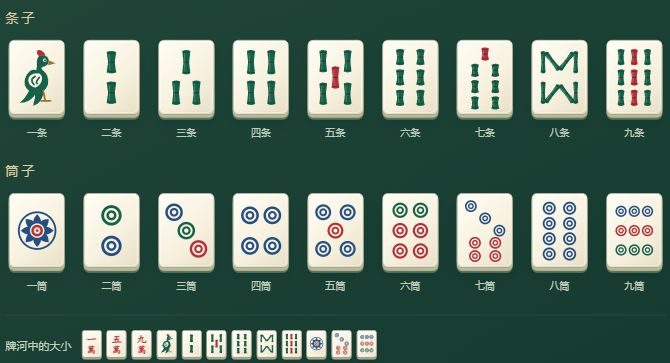
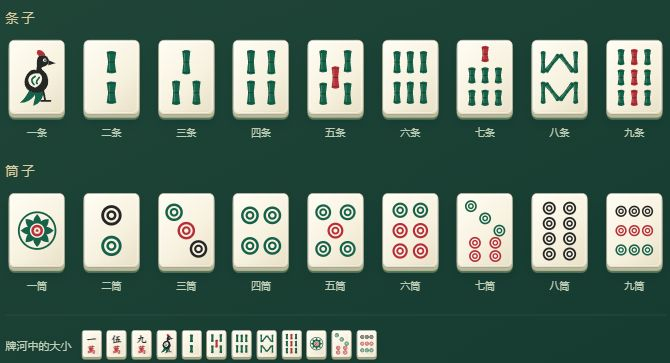
Match all tile colors and layouts to a Chinese physical set

diff --git a/index.html b/index.html
@@ -2478,39 +2478,40 @@ window.onerror = function (msg, src, line, col) {
 
   // ---------- 小工具 ----------
   // ---------- 麻将牌图案：独立 SVG，采用清楚的刻纹和红绿蓝墨色 ----------
-  var CN_NUM = ['一', '二', '三', '四', '五', '六', '七', '八', '九'];
+  var CN_NUM = ['一', '二', '三', '四', '伍', '六', '七', '八', '九'];
   var WAN_FONT = "'KaiTi','STKaiti','Kaiti SC','Songti SC','SimSun','Noto Serif CJK SC','Source Han Serif SC',serif";
   var DOT_LAYOUT = {
-    2: { r: 10, pts: [[24, 17], [24, 47]], colors: 'gb' },
-    3: { r: 8.6, pts: [[12, 14], [24, 32], [36, 50]], colors: 'bgr' },
-    4: { r: 8.7, pts: [[13, 17], [35, 17], [13, 47], [35, 47]], colors: 'bbbb' },
-    5: { r: 7.8, pts: [[12, 14], [36, 14], [24, 32], [12, 50], [36, 50]], colors: 'bbrbb' },
+    2: { r: 10, pts: [[24, 17], [24, 47]], colors: 'kg' },
+    3: { r: 8.6, pts: [[12, 14], [24, 32], [36, 50]], colors: 'grk' },
+    4: { r: 8.7, pts: [[13, 17], [35, 17], [13, 47], [35, 47]], colors: 'gggg' },
+    5: { r: 7.8, pts: [[12, 14], [36, 14], [24, 32], [12, 50], [36, 50]], colors: 'ggrgg' },
     6: { r: 7.5, pts: [[14, 12], [34, 12], [14, 32], [34, 32], [14, 52], [34, 52]], colors: 'ggrrrr' },
-    7: { r: 5.8, pts: [[10, 8], [24, 20], [38, 32], [14, 44], [34, 44], [14, 57], [34, 57]], colors: 'bbbrrrr' },
-    8: { r: 6.4, pts: [[14, 10], [34, 10], [14, 25], [34, 25], [14, 40], [34, 40], [14, 55], [34, 55]], colors: 'bbbbbbbb' },
-    9: { r: 5.5, pts: [[11, 13], [24, 13], [37, 13], [11, 32], [24, 32], [37, 32], [11, 51], [24, 51], [37, 51]], colors: 'bbbrrrggg' }
+    7: { r: 5.8, pts: [[10, 8], [24, 20], [38, 32], [14, 44], [34, 44], [14, 57], [34, 57]], colors: 'gggrrrr' },
+    8: { r: 6.4, pts: [[14, 10], [34, 10], [14, 25], [34, 25], [14, 40], [34, 40], [14, 55], [34, 55]], colors: 'kkkkkkkk' },
+    9: { r: 5.5, pts: [[11, 13], [24, 13], [37, 13], [11, 32], [24, 32], [37, 32], [11, 51], [24, 51], [37, 51]], colors: 'kkkrrrggg' }
   };
   var STICK_LAYOUT = {
     2: { L: 22, W: 9.4, pts: [[24, 17], [24, 47]], accent: [] },
     3: { L: 24, W: 8, pts: [[24, 17], [14, 47], [34, 47]], accent: [] },
     4: { L: 24, W: 8, pts: [[14, 17], [34, 17], [14, 47], [34, 47]], accent: [] },
     5: { L: 22, W: 7.6, pts: [[12, 16], [36, 16], [24, 32], [12, 48], [36, 48]], accent: [2] },
-    6: { L: 16, W: 8.2, pts: [[14, 12], [34, 12], [14, 32], [34, 32], [14, 52], [34, 52]], accent: [] },
-    7: { L: 13, W: 7.6, pts: [[24, 9], [14, 25], [34, 25], [14, 41], [34, 41], [14, 57], [34, 57]], accent: [0] },
-    8: { L: 22, W: 4.8, pts: [[8, 17], [17, 16, -38], [31, 16, 38], [40, 17], [8, 47], [17, 48, 38], [31, 48, -38], [40, 47]], accent: [] },
+    6: { L: 22, W: 7.2, pts: [[11, 17], [24, 17], [37, 17], [11, 47], [24, 47], [37, 47]], accent: [] },
+    7: { L: 16, W: 7.2, pts: [[24, 9], [11, 30], [24, 30], [37, 30], [11, 52], [24, 52], [37, 52]], accent: [0] },
+    8: { L: 22, W: 4.8, pts: [[8, 17], [17, 18, 38], [31, 18, -38], [40, 17], [8, 47], [17, 46, -38], [31, 46, 38], [40, 47]], accent: [] },
     9: { L: 16, W: 6.7, pts: [[11, 12], [24, 12], [37, 12], [11, 32], [24, 32], [37, 32], [11, 52], [24, 52], [37, 52]], accent: [1, 4, 7] }
   };
   function svgWrap(inner) {
     return '<svg viewBox="0 0 48 64" preserveAspectRatio="xMidYMid meet" aria-hidden="true" focusable="false" xmlns="http://www.w3.org/2000/svg">' + inner + '</svg>';
   }
-  var TILE_INKS = { b: '#254e83', g: '#166149', r: '#b62f38' };
+  // 与同一套中式实物牌对照：黑、绿、红三色；k 为黑墨。
+  var TILE_INKS = { k: '#242725', g: '#166149', r: '#b62f38' };
   // 两道同色套环，保留白心；小牌不依赖微小高光辨认。
   function dotSvg(cx, cy, r, color) {
     return '<g transform="translate(' + cx + ' ' + cy + ')" fill="' + TILE_INKS[color] + '">' +
       '<circle r="' + r + '"/><circle r="' + (r * .72).toFixed(2) + '" fill="#f8f2e2"/>' +
       '<circle r="' + (r * .49).toFixed(2) + '"/><circle r="' + (r * .25).toFixed(2) + '" fill="#f8f2e2"/></g>';
   }
-  // 竹身始终连续，深色竹节不会将一根切成几根；八条为上 M、下 W 的八根竹。
+  // 竹身始终连续，深色竹节不会将一根切成几根；八条为上 W、下 M 的八根竹。
   function stickSvg(cx, cy, L, W, accent, angle) {
     var x = W / 2, y = L / 2, ink = TILE_INKS[accent ? 'r' : 'g'];
     function f(n) { return +n.toFixed(2); }
@@ -2525,24 +2526,24 @@ window.onerror = function (msg, src, line, col) {
   }
   // 幺鸡：侧身、长尾与一小笔朱红冠，避免缩小后像空心圆。
   function birdSvg() {
-    return '<g fill="#166149">' +
-      '<path d="M18 40Q15 50 7 57Q18 57 23 47L20 60Q30 57 31 43Z"/>' +
+    return '<g fill="#242725">' +
+      '<path d="M18 40Q15 50 7 57Q18 57 23 47L20 60Q30 57 31 43Z" fill="#166149"/>' +
       '<path d="M23 25C20 23 15 26 13 31C9 39 14 47 23 47C32 47 37 40 34 31C33 27 29 25 28 23C28 21 33 22 35 18C37 12 31 8 26 11C22 14 25 20 23 25Z"/>' +
       '<path d="M26 11Q22 8 25 5Q30 5 32 10Z" fill="#b62f38"/>' +
-      '<path d="M35 15L42 18L35 20Z" fill="#a36d35"/>' +
+      '<path d="M35 15L42 18L35 20Z"/>' +
       '<circle cx="31.5" cy="15" r="1.6" fill="#f8f2e2"/><circle cx="31.8" cy="15" r=".8" fill="#173c30"/>' +
       '<path d="M22 28C13 29 13 40 22 42C29 39 31 31 26 28Z" fill="#f8f2e2"/>' +
       '<path d="M22 31Q16 34 21 39M26 32Q22 37 24 38M18 46L14 53M22 48L24 54" fill="none" stroke="#166149" stroke-width="1.7" stroke-linecap="round"/>' +
-      '<path d="M30 45L32 55M28 55H37" fill="none" stroke="#a36d35" stroke-width="1.8" stroke-linecap="round"/></g>';
+      '<path d="M30 45L32 55M28 55H37" fill="none" stroke="#242725" stroke-width="1.8" stroke-linecap="round"/></g>';
   }
   function oneDotSvg() {
     var petals = '';
     for (var i = 0; i < 8; i++) petals += '<path d="M24 16C19 21 19 26 24 29C29 26 29 21 24 16Z" transform="rotate(' + i * 45 + ' 24 32)"/>';
-    return '<g fill="#254e83"><circle cx="24" cy="32" r="18" fill="none" stroke="#254e83" stroke-width="1.8"/>' +
+    return '<g fill="#166149"><circle cx="24" cy="32" r="18" fill="none" stroke="#166149" stroke-width="1.8"/>' +
       petals + '<circle cx="24" cy="32" r="7.1" fill="#f8f2e2"/><circle cx="24" cy="32" r="5.7" fill="#b62f38"/>' +
       '<circle cx="24" cy="32" r="3.2" fill="#f8f2e2"/><circle cx="24" cy="32" r="1.3" fill="#b62f38"/></g>';
   }
-  // 万字统一墨色，取消多层偏移字影。
+  // 中式实物万子：上方数字黑墨、下方萬字朱红。
   function wanSvg(n) {
     var num = CN_NUM[n - 1];
     function t(x, y, size, ch, fill, extra) {
@@ -2550,8 +2551,8 @@ window.onerror = function (msg, src, line, col) {
         'font-family="' + WAN_FONT + '" fill="' + fill + '"' + (extra || '') + '>' + ch + '</text>';
     }
     return '<g>' +
-      t(24, 29, 29, num, '#b62f38') +
-      t(24, 58, 26, '萬', '#b62f38') +
+      t(24, 29, 29, num, TILE_INKS.k) +
+      t(24, 58, 26, '萬', TILE_INKS.r) +
       '</g>';
   }
   var FACE_CACHE = [];

diff --git a/tests/offline.test.js b/tests/offline.test.js
@@ -10,7 +10,7 @@ function worker(fetch) {
   vm.runInNewContext(fs.readFileSync(path.join(__dirname, '..', 'sw.js'), 'utf8'), {
     URL, fetch,
     self: { location: { href: 'https://example.com/mahjong/sw.js' }, clients: { claim: async () => {} }, addEventListener: (name, fn) => handlers[name] = fn },
-    caches: { keys: async () => ['zmj-v15', 'zmj-v16', 'zmj-v17', 'zmj-v18', 'zmj-v19', 'zmj-v20', 'zmj-v21', 'zmj-v22', 'zmj-v23', 'another-project-v1'], delete: async key => deleted.push(key), open: async () => cache, match: async () => undefined }
+    caches: { keys: async () => ['zmj-v15', 'zmj-v16', 'zmj-v17', 'zmj-v18', 'zmj-v19', 'zmj-v20', 'zmj-v21', 'zmj-v22', 'zmj-v23', 'zmj-v24', 'another-project-v1'], delete: async key => deleted.push(key), open: async () => cache, match: async () => undefined }
   });
   async function request(url = 'https://example.com/mahjong/?room=1234') {
     let response, pending = [];
@@ -23,7 +23,7 @@ function worker(fetch) {
 test('offline upgrade removes only this game old caches', async () => {
   const w = worker(); let done;
   w.handlers.activate({ waitUntil: x => done = x }); await done;
-  assert.deepEqual(w.deleted, ['zmj-v15', 'zmj-v16', 'zmj-v17', 'zmj-v18', 'zmj-v19', 'zmj-v20', 'zmj-v21', 'zmj-v22']);
+  assert.deepEqual(w.deleted, ['zmj-v15', 'zmj-v16', 'zmj-v17', 'zmj-v18', 'zmj-v19', 'zmj-v20', 'zmj-v21', 'zmj-v22', 'zmj-v23']);
 });
 test('failed HTTP responses are not cached; room links share one offline page', async () => {
   const error = worker(async () => ({ ok: false, status: 503 }));

diff --git a/sw.js b/sw.js
@@ -1,6 +1,6 @@
 /* 转转麻将 · Service Worker：离线可用 + 自动更新
  * 策略：页面走 network-first（保证更新及时），静态资源走 cache-first（保证离线）。 */
-var CACHE = 'zmj-v23';
+var CACHE = 'zmj-v24';
 var ASSETS = ['./', './index.html', './manifest.webmanifest', './icon-512.png'];
 self.addEventListener('install', function (e) {
   e.waitUntil(caches.open(CACHE).then(function (c) { return c.addAll(ASSETS); }).then(function () { return self.skipWaiting(); }));

diff --git a/视觉设计说明.md b/视觉设计说明.md
@@ -27,19 +27,33 @@
 
 根据用户对条子和筒子的反馈，重画整套图案：
 
-- 条子使用连续竹身、暗色竹节和墨绿配色；二条上下分列两根，八条改为上 M、下 W；一条重绘为侧身长尾幺鸡。
-- 筒子改为红、绿、蓝的同色套环，移除逐个圆点的红蓝高光；一筒使用花形纹样，七筒上三点斜排、下四点方排，七至九筒留出圆点间距。
-- 万子取消多层字影，统一为清楚的朱红字形。
+- 条子使用连续竹身、暗色竹节和墨绿配色；二条上下分列两根，八条为上 W、下 M；一条为黑身、绿羽和红冠的幺鸡。
+- 筒子使用黑、绿、红三色套环；一筒为绿花红心，七筒上三点斜排、下四点方排，各牌按同一套中式实物牌核对配色。
+- 万子采用黑色数字、红色“萬”字，五万的数字使用实物图中的“伍”。取消多层字影。
 - 每个牌面都是独立 SVG，缩放时无位图模糊，也不再依赖页面上的共享渐变定义。图案以自绘路径组合；[布鲁克林博物馆的实物牌资料](https://www.brooklynmuseum.org/objects/164742)作为配色与排列的参考资料之一。
 - 增加“更多 → 牌面一览”，一次查看 27 种牌及牌河中的小尺寸。浏览时不修改牌局，关闭后焦点回到可见菜单。
 
 首次重绘的完整检查为 77 项规则／服务端测试、12 组浏览器流程通过；界面组扩至 32 条断言，缓存版本为 `zmj-v22`。
 
-### 辨识校正
+### 按同一套中式实物牌逐张核对
 
-用户指出二条容易看成六条、八条不熟悉、七筒上三点应斜排。本次检索并实际查看了[实物牌参考图](https://www.mahjongtiles.com/image/cache/catalog/bnb-022-500x500.jpg)：七筒上三点沿斜线排列，八条呈上下两组、每组四根的轮廓。依此调整布局；二条上下各一根短竹，竹节不再用白色横线切断，避免两根被误看成六段。小尺寸预览补入二条、六条、八条与七筒，便于直接比较。
+上一轮修正了二条与七筒，八条的上下方向仍画反。本次按用户指出的上 W、下 M 翻正，并实际查看了[中式实物牌图](https://shoplineimg.com/62be6a2cb8d408006a88ab73/671b04b7fe306100107ae182/900x.png)，逐张核对三门牌。统一采用该套实物牌的黑、绿、红配色与分组，万子为黑数红“萬”。
 
-本次校正通过界面布局 32 条、逐张选牌 11 条浏览器断言，以及 3 项离线更新测试、自包含检查。规则与推荐引擎逐字比较一致。实际查看桌面和 390×844 竖屏，截图已更新；缓存升级至 `zmj-v23`。真实手机触感与不同设备显示仍需实机确认。
+| 数值 | 条子 | 筒子 |
+| --- | --- | --- |
+| 一 | 黑身绿羽、红冠幺鸡 | 绿花、红心 |
+| 二 | 上下两根绿竹 | 上黑、下绿 |
+| 三 | 上一、下二，均绿 | 沿斜线依次为绿、红、黑 |
+| 四 | 两行两列绿竹 | 四个绿圈 |
+| 五 | 四角绿竹、中间红竹 | 四角绿圈、中间红圈 |
+| 六 | 上三、下三，均绿 | 上二绿、下四红 |
+| 七 | 顶端一红，下方两行各三绿 | 上三绿斜排、下四红方排 |
+| 八 | 上 W、下 M，均绿 | 两列四行黑圈 |
+| 九 | 三行三列，中列红、两侧绿 | 三排依次为黑、红、绿 |
+
+二条竹身不被白色横线切断，避免误认六段；小尺寸预览包含二条、六条、八条及七筒，便于直接比较。
+
+本次通过界面布局 32 条、逐张选牌 11 条、训练交互 21 条浏览器断言，以及 3 项离线更新测试、自包含检查。规则与推荐引擎逐字比较一致。实际查看桌面和 390×844 竖屏，截图已更新；缓存升级至 `zmj-v24`。真实手机触感与不同设备显示仍需实机确认。
 
 ![最新牌面细节](reports/screenshots/tile-faces.jpg)
 

diff --git a/发布与回滚.md b/发布与回滚.md
@@ -22,11 +22,11 @@
 
 结算亮牌也需要前后端一起更新：旧服务器不提供 `hand.revealed`，新前端会明确提示无法取得终局手牌。局中不得出现该字段；结算后才下发四家暗牌，下一局移除。验收时检查荒庄、自摸、一炮多响、关闭后重开，以及别人先续局时能返回当前牌局。
 
-服务器只保存在内存中的房间，重启后丢失；安排维护时先告知正在同桌的玩家。不要承诺重启后自动续局。当前离线缓存为 `zmj-v23`。
+服务器只保存在内存中的房间，重启后丢失；安排维护时先告知正在同桌的玩家。不要承诺重启后自动续局。当前离线缓存为 `zmj-v24`。
 
 联机响应修复需要更新并重启 Node 进程，单纯刷新页面不会替换进程内已加载的服务端代码。新版先确认真人操作并回传牌面，再异步推进电脑；旧前端仍可使用。新前端连旧服务器时提示更新后才能测量网络往返。重启前确认无进行中的牌局；随后在「联机」面板核对往返、操作确认及服务器处理耗时，见 [排查记录](联机响应排查.md)。
 
-新版联机前端使用 Blob Worker 采样，HTTP 文本响应支持 gzip。验收时确认浏览器正常创建后台任务、失败时仍可出牌，压缩和未压缩页面内容一致、离线更新能取得 v23。如自行添加 CSP，需允许该页面使用 Blob Worker；具体策略变更应另行验证。线路探针支持 HTTPS/WSS 且不加入房间，但自签名服务的默认受信任证书问题仍需独立处理。
+新版联机前端使用 Blob Worker 采样，HTTP 文本响应支持 gzip。验收时确认浏览器正常创建后台任务、失败时仍可出牌，压缩和未压缩页面内容一致、离线更新能取得 v24。如自行添加 CSP，需允许该页面使用 Blob Worker；具体策略变更应另行验证。线路探针支持 HTTPS/WSS 且不加入房间，但自签名服务的默认受信任证书问题仍需独立处理。
 
 视觉改版验收还需查看三个大厅入口、手机横竖屏手牌、更多菜单与设置关闭后的焦点，以及训练和结算的滚动。在“更多 → 牌面一览”核对新条子、筒子和三门牌的排列。截图与设计说明见 [视觉设计说明](视觉设计说明.md)。该轮仅更新前端，无须为样式改动单独重启现有联机房间。
 

diff --git a/实施记录.md b/实施记录.md
@@ -2,6 +2,12 @@
 
 日期：2026-10-17。工作分支：`codex/mahjong-training-quality`。
 
+## 第八轮：按中式实物牌统一颜色与布局
+
+用户指出八条方向仍反了，并要求其他牌也尽量符合实物。本次实际查看清晰中式牌面图，对三门 27 种牌逐张核对，来源和逐项对照表见 [视觉设计说明](视觉设计说明.md)。八条翻正为上 W、下 M；万子为黑数红“萬”，五万用“伍”；六条改为上下各三根，七条为顶端一红、下方两行各三绿。筒子统一为该套实物牌的黑、绿、红布局，一筒绿花红心、二筒上黑下绿、三筒绿红黑斜排、四筒全绿、五筒四绿一红、六筒上二绿下四红、七筒上三绿斜排下四红、八筒全黑、九筒黑红绿三排。幺鸡为黑身绿羽红冠。
+
+验证：32 条界面布局、11 条逐张选择、21 条训练交互浏览器断言，3 项离线更新与零依赖检查通过。规则引擎与上一提交逐字一致。桌面、390×844 竖屏及小牌预览已实际查看，更新截图。缓存升级为 v24，仍在原功能分支提交供审查。
+
 ## 第七轮：二条、八条与七筒辨识校正
 
 按用户指出的认牌问题，检索并实际查看网上实物牌图，来源与截图见 [视觉设计说明](视觉设计说明.md)。二条改为上下两根短竹，所有竹节改为不切断竹身的深色刻线；八条改为上 M、下 W 的两组四根布局；七筒上方三点改为斜排，下方四点保持方排。小尺寸一览补入二条、六条、八条及七筒，直接检查区别。
